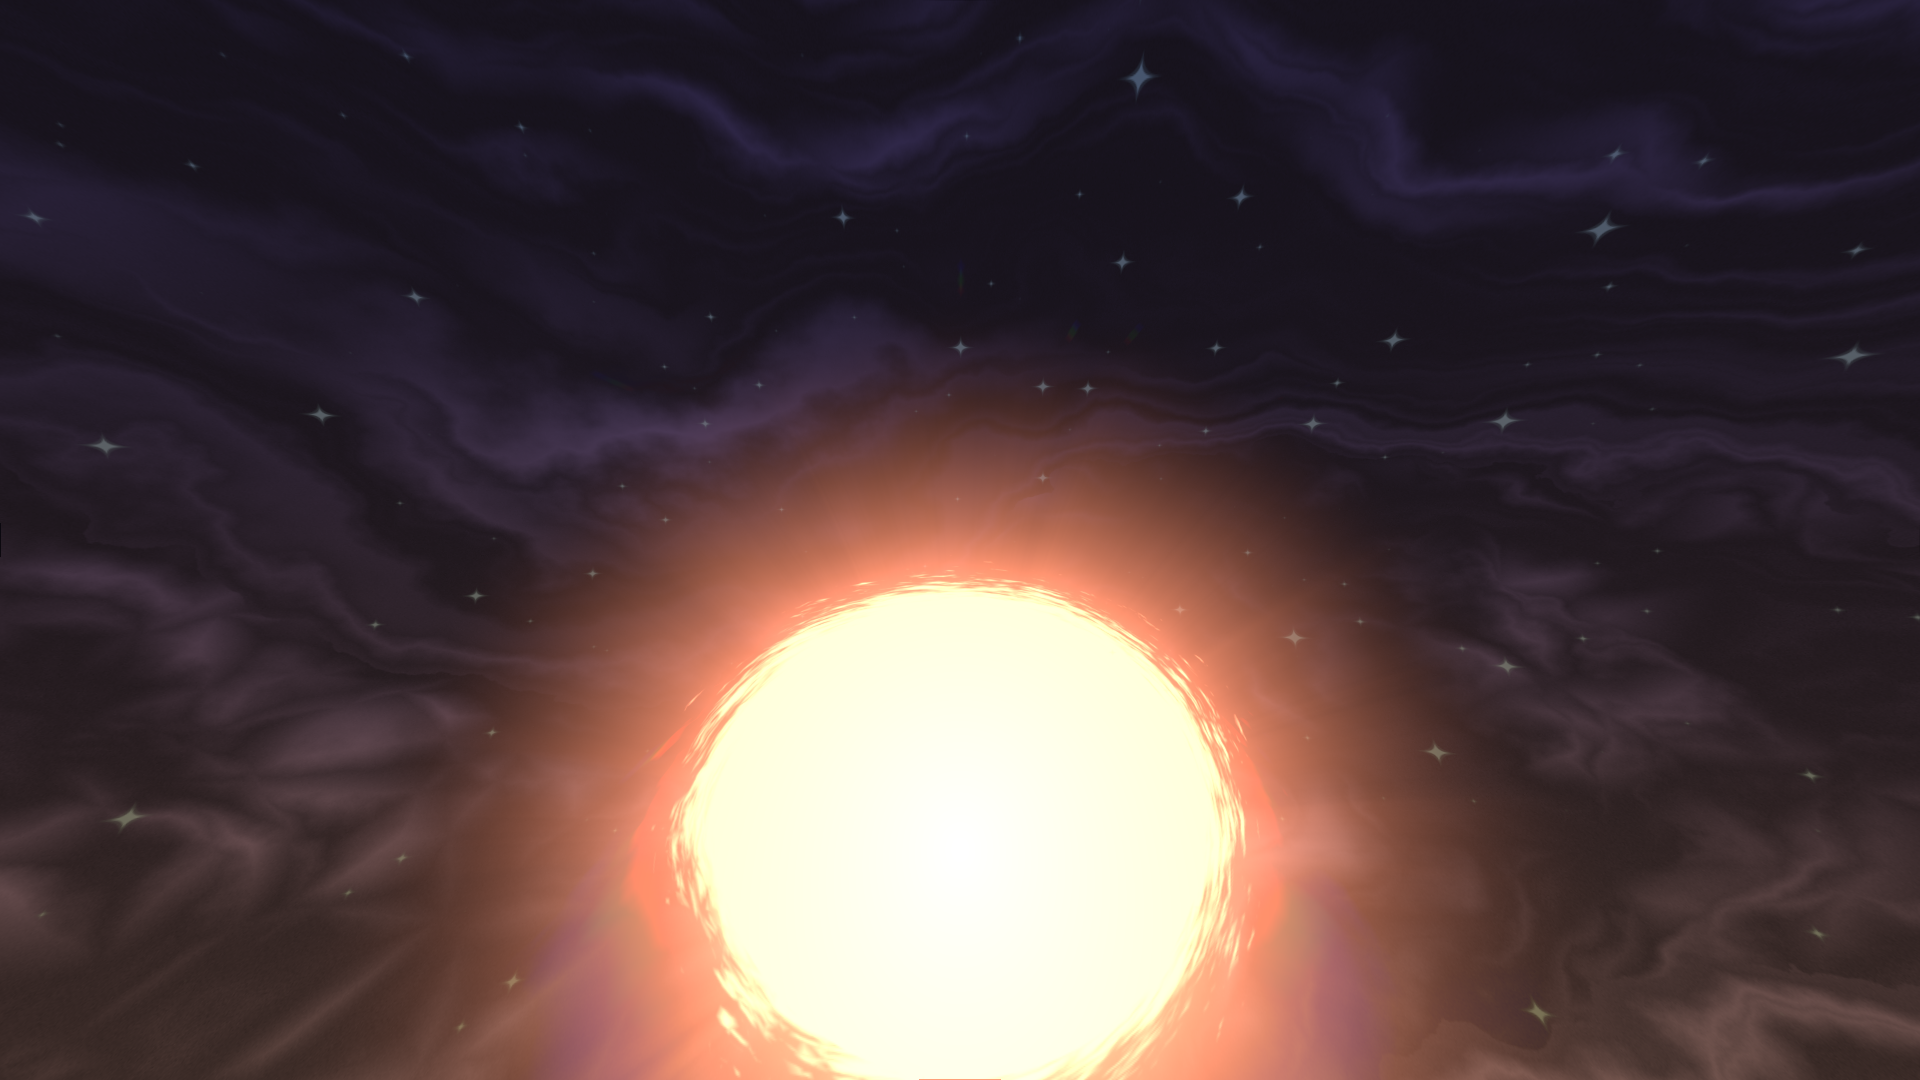
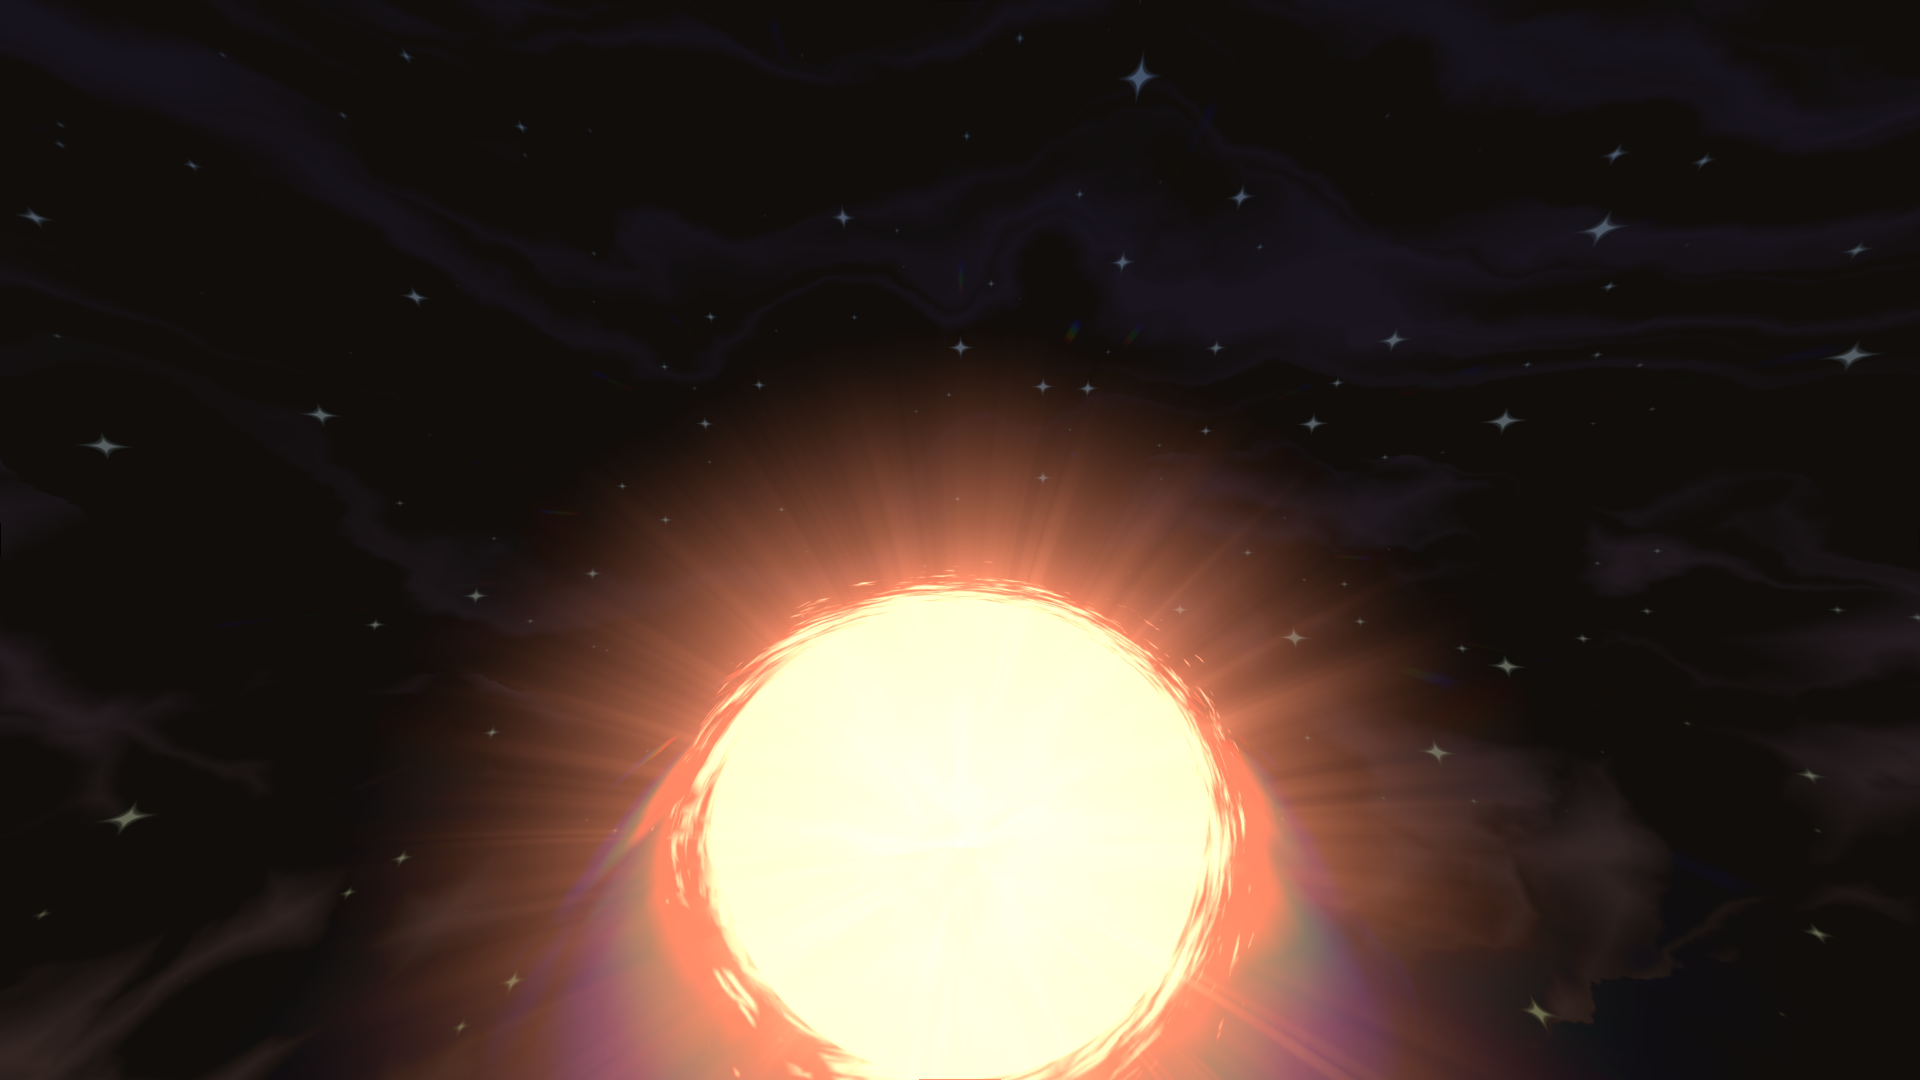
updated the space background files for the navbar

diff --git a/pages/articles/[title].tsx b/pages/articles/[title].tsx
@@ -65,7 +65,7 @@ export default function ArticlePage({ articleData, disliked, liked, randomQuoteI
         trigger: document.body,
         start: window.innerHeight * 0.5,
         end: `+=${window.innerHeight}`,
-        scrub: 0.75,
+        scrub: 0.25,
       }
     })
   }, [])

diff --git a/components/Navbar/NavBar.module.scss b/components/Navbar/NavBar.module.scss
@@ -32,8 +32,8 @@
     background-size: cover;
     background-position: 0% -400%;
     z-index: -3;
-    mix-blend-mode: soft-light;
-    opacity: 1;
+    mix-blend-mode: luminosity;
+    opacity: 0.2;
     display: none;
     backdrop-filter: brightness(2);
   }
